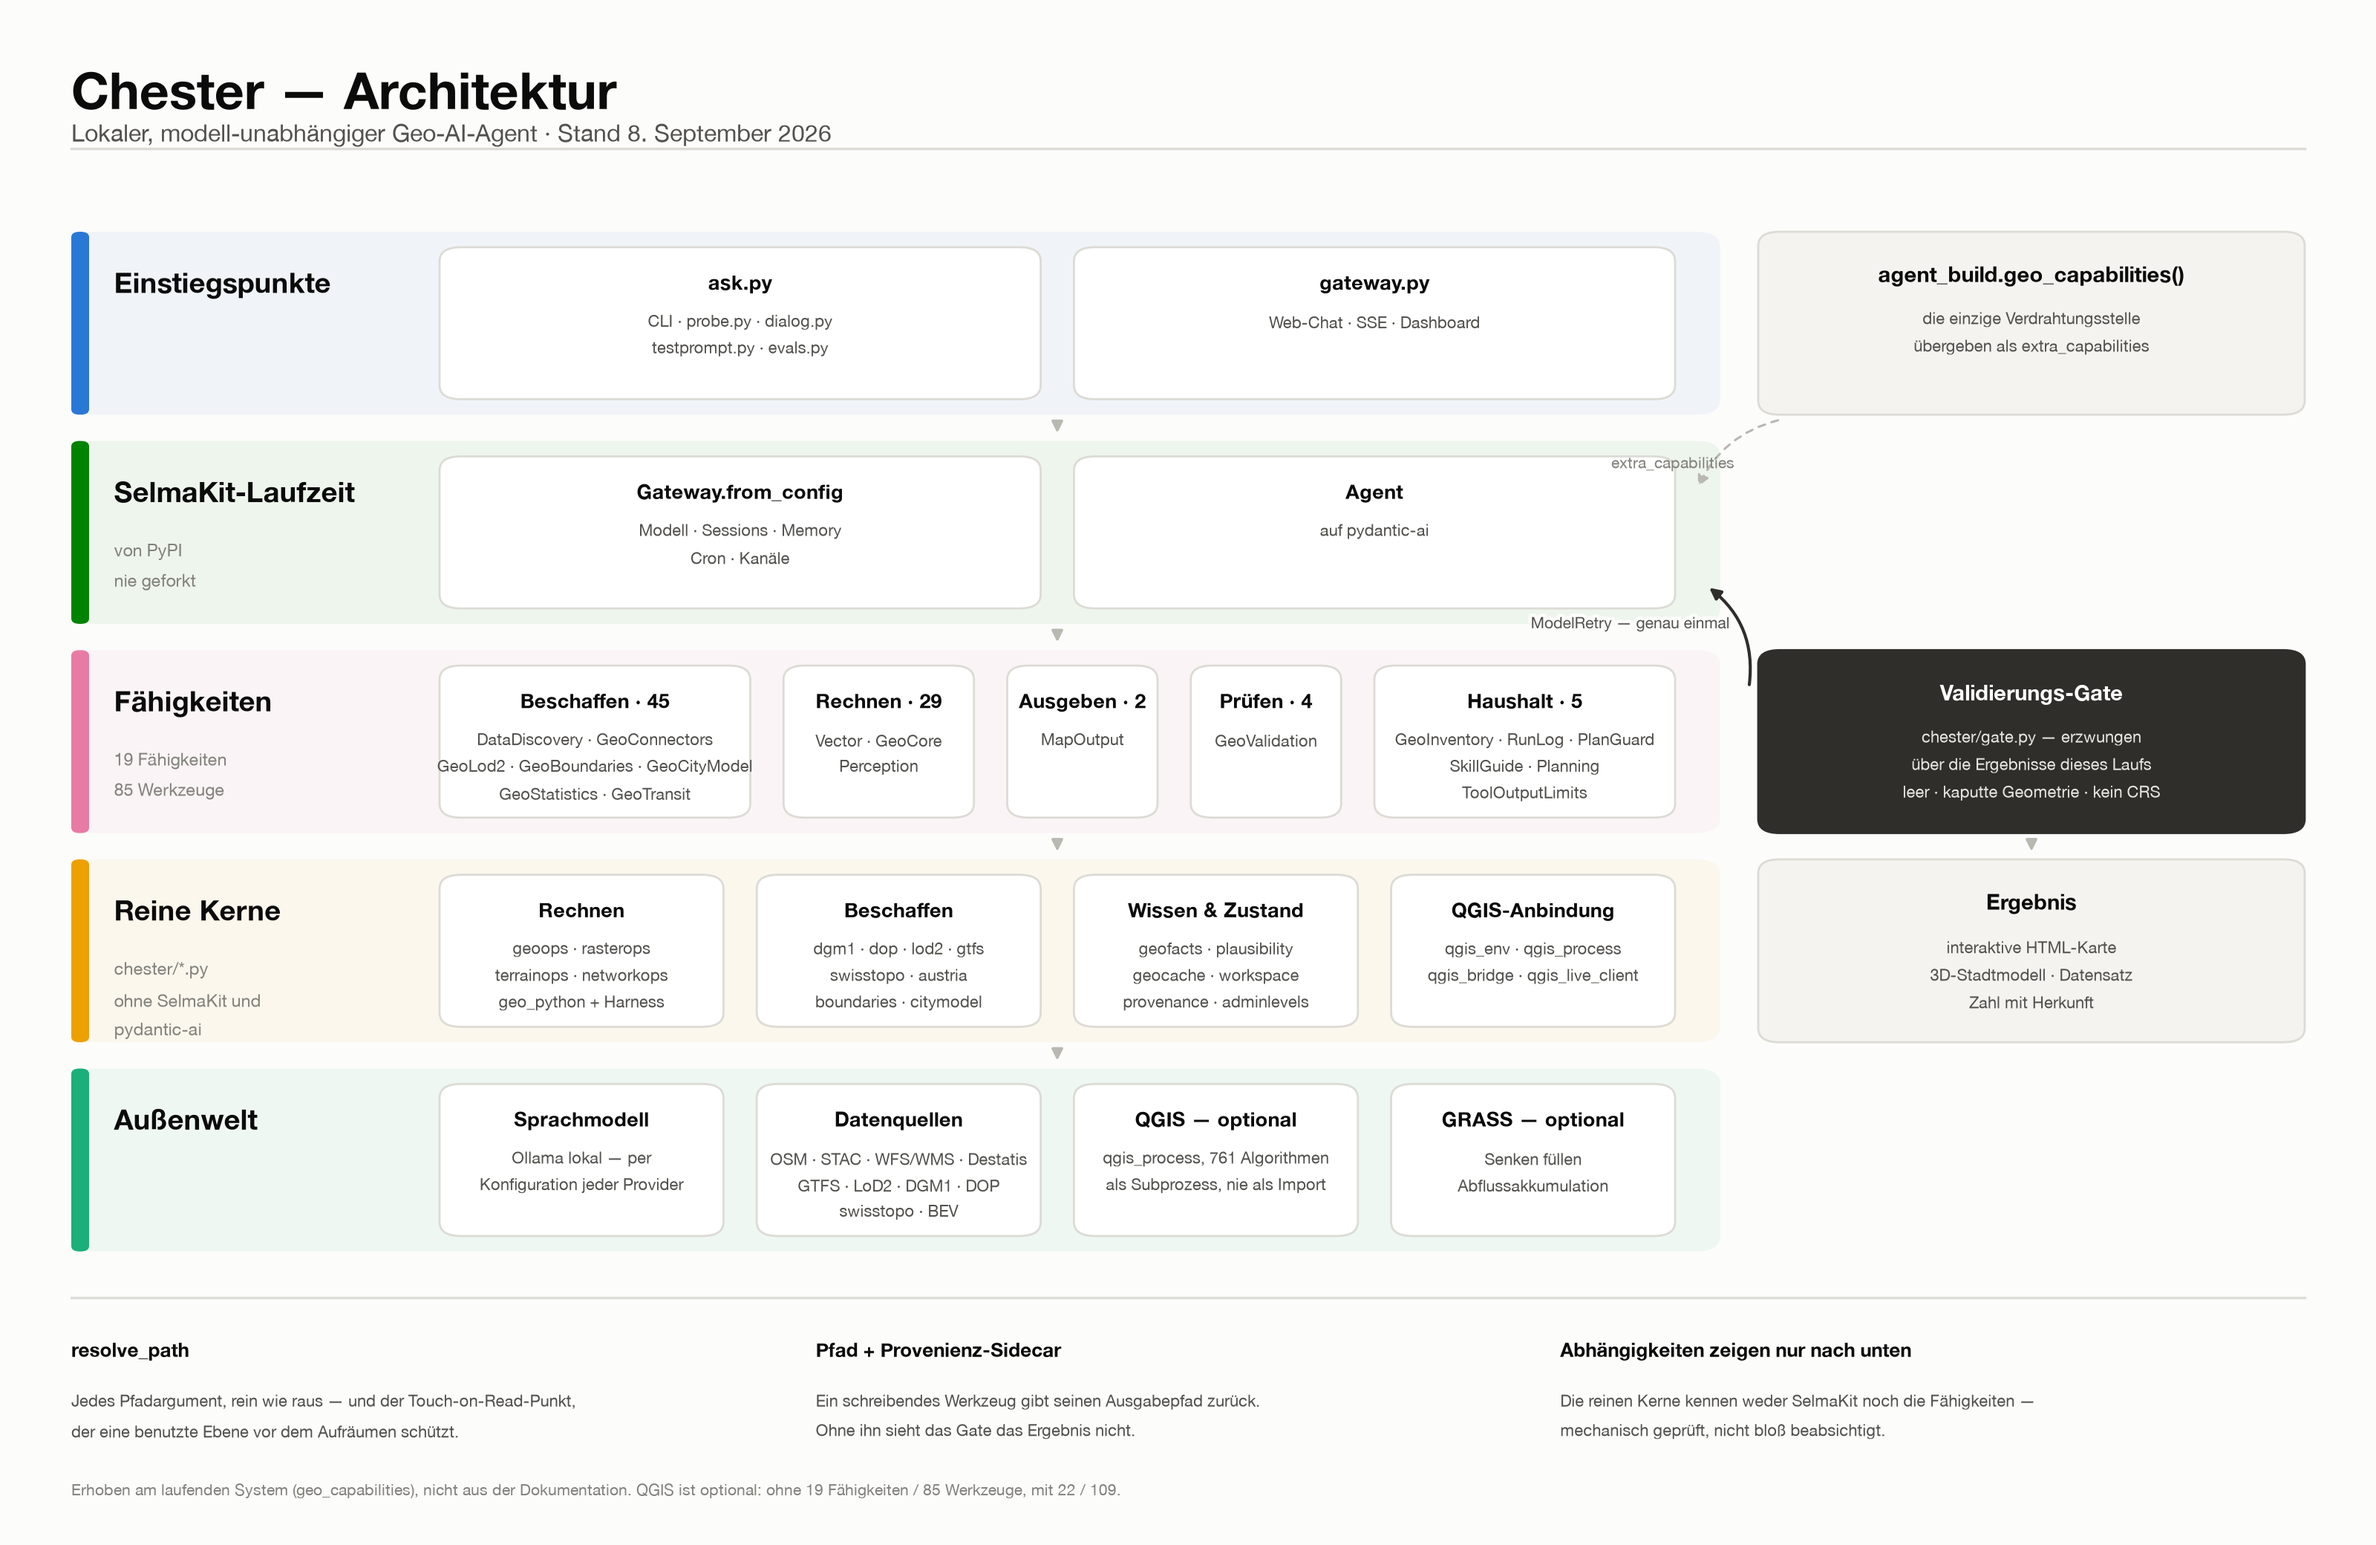
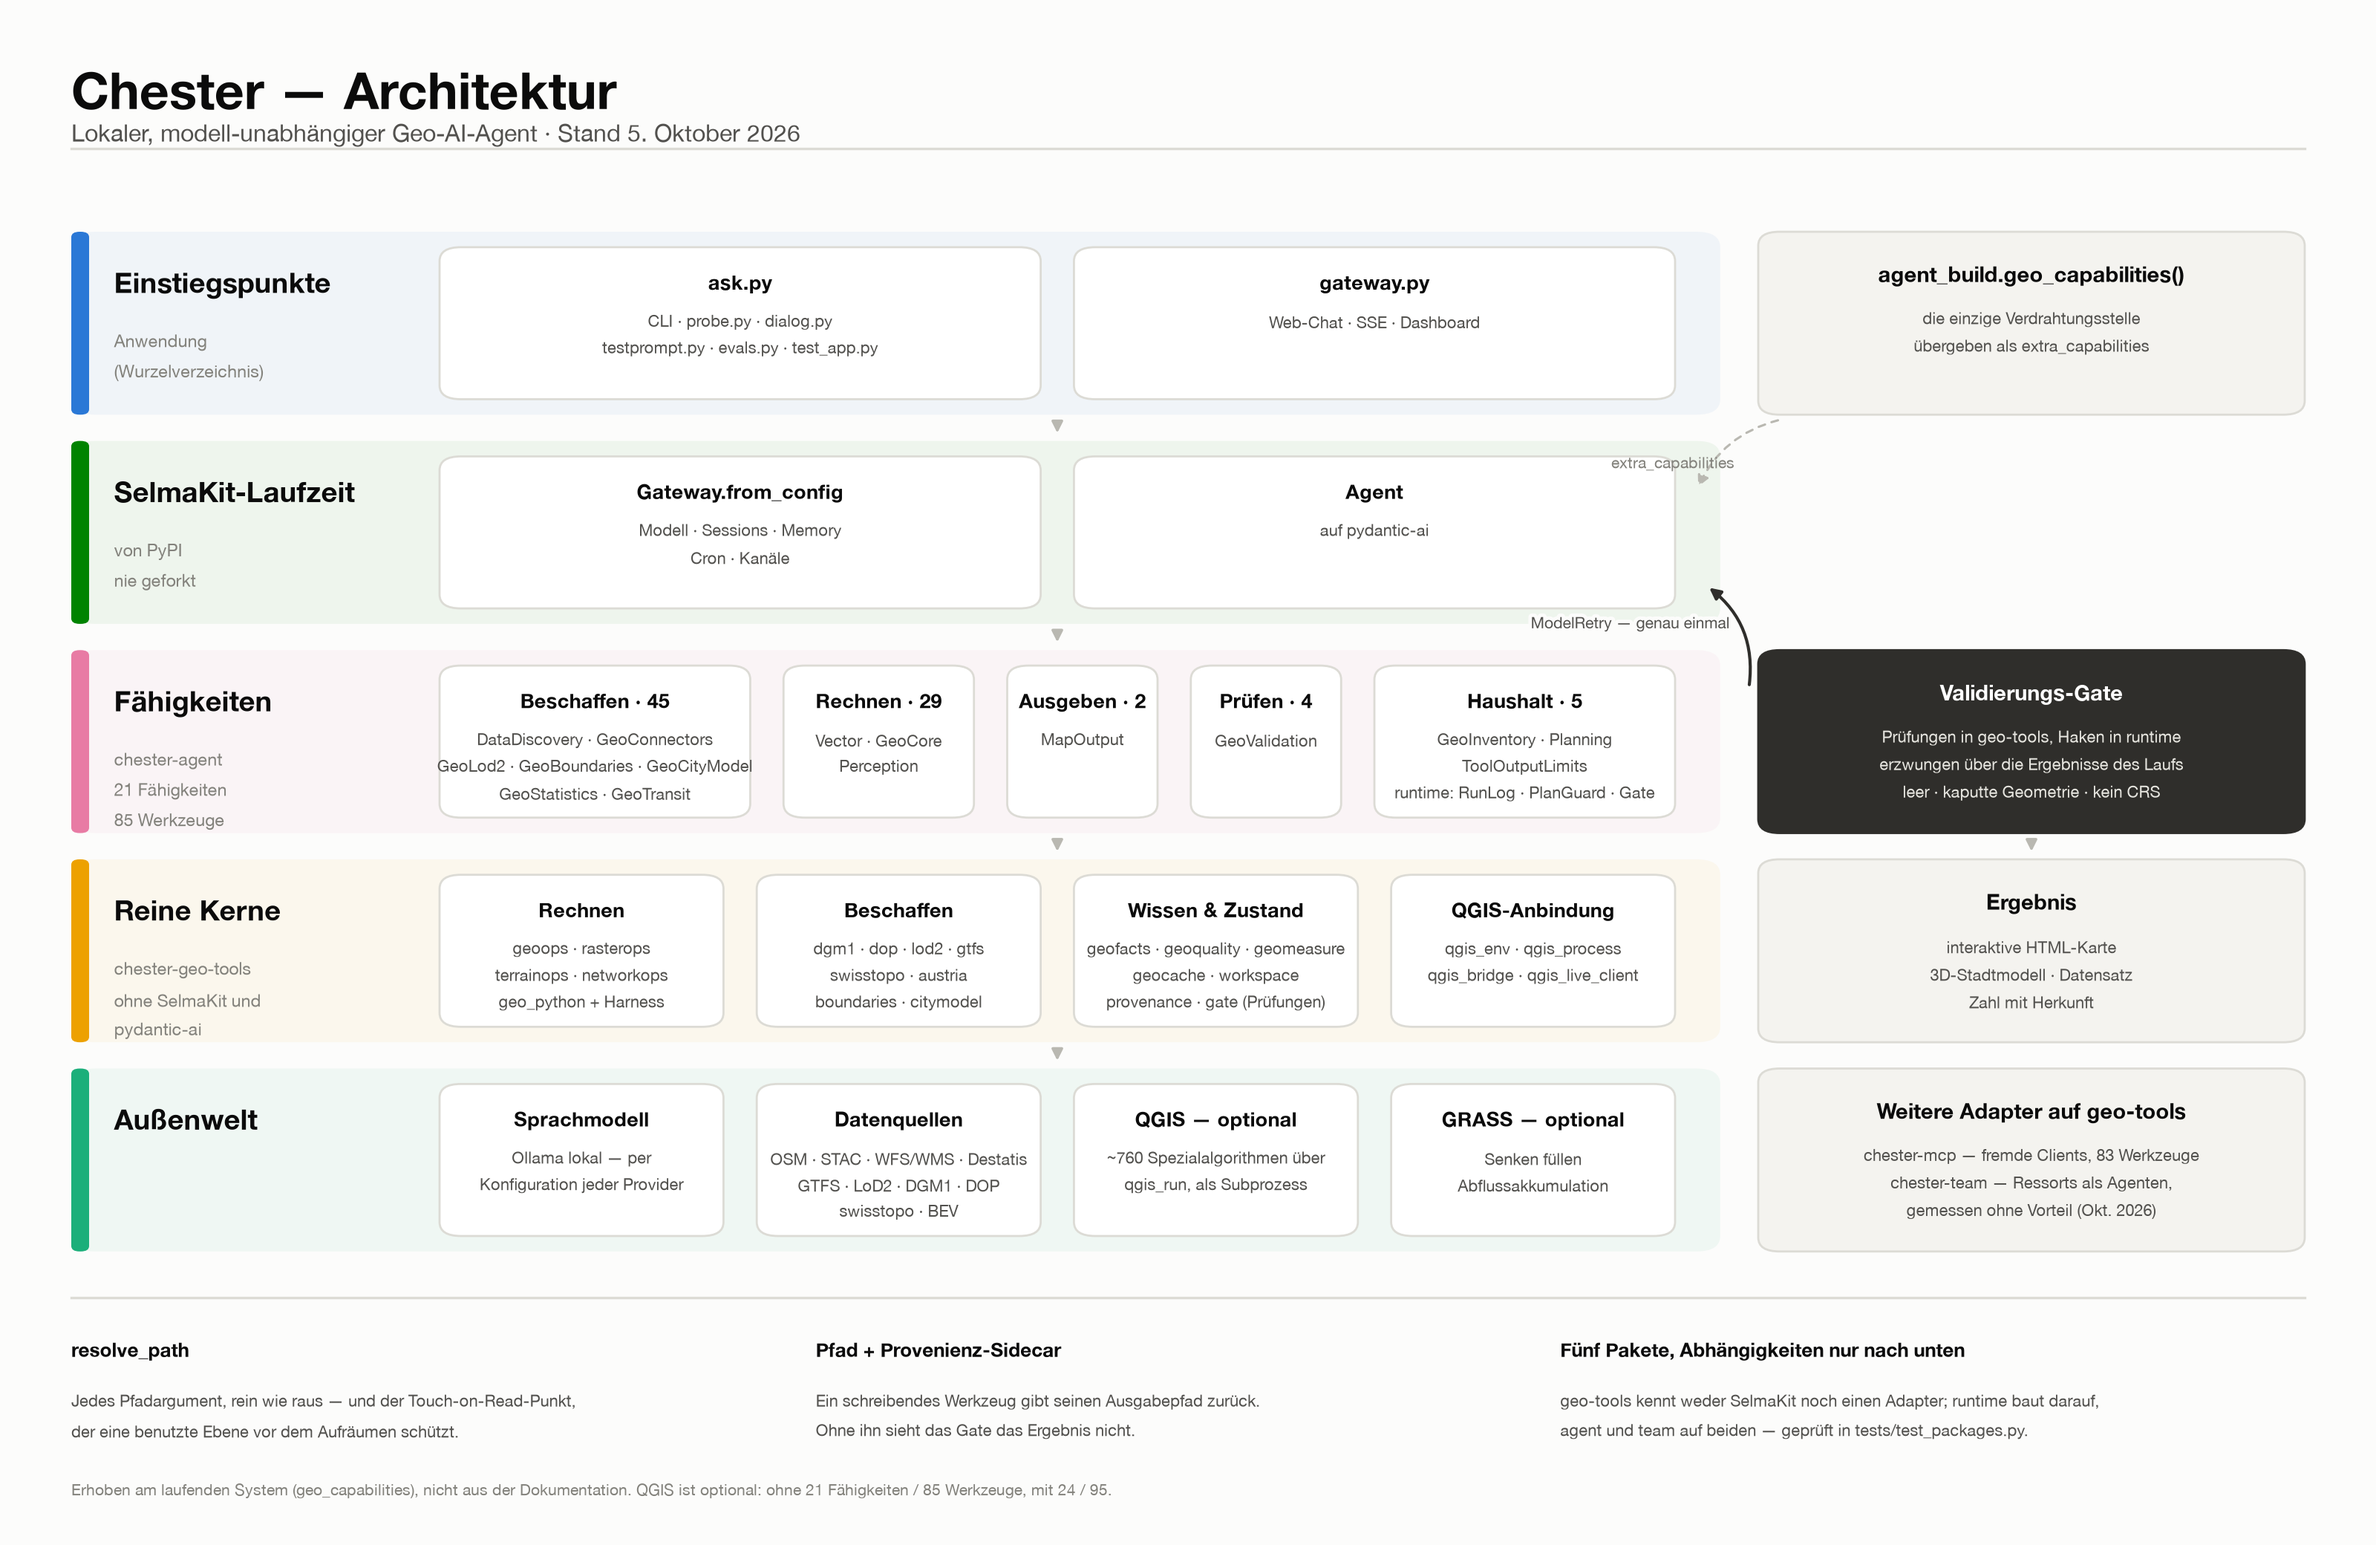
Das Architekturbild zeigt die fuenf Pakete
Seit dem Paketschnitt vom 19.09. zeigte das Bild, das README, features.md und
Code-Map als Erstes einbinden, fuenf Schichten ohne Pakete -- und widersprach
dem Text darunter. Jetzt nennt jede Schicht ihr Paket (Anwendung,
chester-agent mit den Beobachtern aus chester-runtime, chester-geo-tools),
eine Karte zeigt die weiteren Adapter chester-mcp und chester-team, das Gate
sagt, wo es lebt. Zahlen am laufenden System neu erhoben: 21/85 ohne, 24/95
mit QGIS (vorher 19/85, 22/109).

Claude-Session: https://claude.ai/code/session_01Pe9To8MZm6kTNjDpnXYjNK

diff --git a/doc/code-map.md b/doc/code-map.md
@@ -14,7 +14,7 @@ Bezeichnern und Pfaden (siehe Sprachregelung in [`features.md`](./features.md)).
 ## Wie die Teile zueinander stehen
 
 <p align="center">
-  <img src="./img/architektur.png" alt="Chesters Architektur in fünf Schichten: Einstiegspunkte, SelmaKit-Laufzeit, Fähigkeiten, reine Kerne, Außenwelt — rechts das Validierungs-Gate" width="920">
+  <img src="./img/architektur.png" alt="Chesters Architektur in fünf Schichten mit ihren Paketen: Einstiegspunkte (Anwendung), SelmaKit-Laufzeit, Fähigkeiten (chester-agent, Beobachter aus chester-runtime), reine Kerne (chester-geo-tools), Außenwelt — rechts das Validierungs-Gate und die weiteren Adapter chester-mcp und chester-team" width="920">
 </p>
 
 Die Schichtung ist die eine Aussage, die man vor allen Moduleinträgen braucht:

diff --git a/doc/features.md b/doc/features.md
@@ -5,7 +5,7 @@
 > [`usage.md`](./usage.md); die Design-Hintergründe in den jeweils verlinkten Konzept-Docs.
 
 <p align="center">
-  <img src="./img/architektur.png" alt="Chesters Architektur in fünf Schichten: Einstiegspunkte, SelmaKit-Laufzeit, Fähigkeiten, reine Kerne, Außenwelt — rechts das Validierungs-Gate" width="920">
+  <img src="./img/architektur.png" alt="Chesters Architektur in fünf Schichten mit ihren Paketen: Einstiegspunkte (Anwendung), SelmaKit-Laufzeit, Fähigkeiten (chester-agent, Beobachter aus chester-runtime), reine Kerne (chester-geo-tools), Außenwelt — rechts das Validierungs-Gate und die weiteren Adapter chester-mcp und chester-team" width="920">
 </p>
 
 Zur Orientierung: Alles, was diese Tour beschreibt, sitzt in der Schicht

diff --git a/README.md b/README.md
@@ -293,7 +293,7 @@ flowchart LR
 ### Der Aufbau in fünf Schichten
 
 <p align="center">
-  <img src="./doc/img/architektur.png" alt="Chesters Architektur in fünf Schichten: Einstiegspunkte, SelmaKit-Laufzeit, Fähigkeiten, reine Kerne, Außenwelt — rechts das Validierungs-Gate" width="920">
+  <img src="./doc/img/architektur.png" alt="Chesters Architektur in fünf Schichten mit ihren Paketen: Einstiegspunkte (Anwendung), SelmaKit-Laufzeit, Fähigkeiten (chester-agent, Beobachter aus chester-runtime), reine Kerne (chester-geo-tools), Außenwelt — rechts das Validierungs-Gate und die weiteren Adapter chester-mcp und chester-team" width="920">
 </p>
 
 Die Abhängigkeiten zeigen **nur nach unten**: Die reinen Kerne importieren weder
